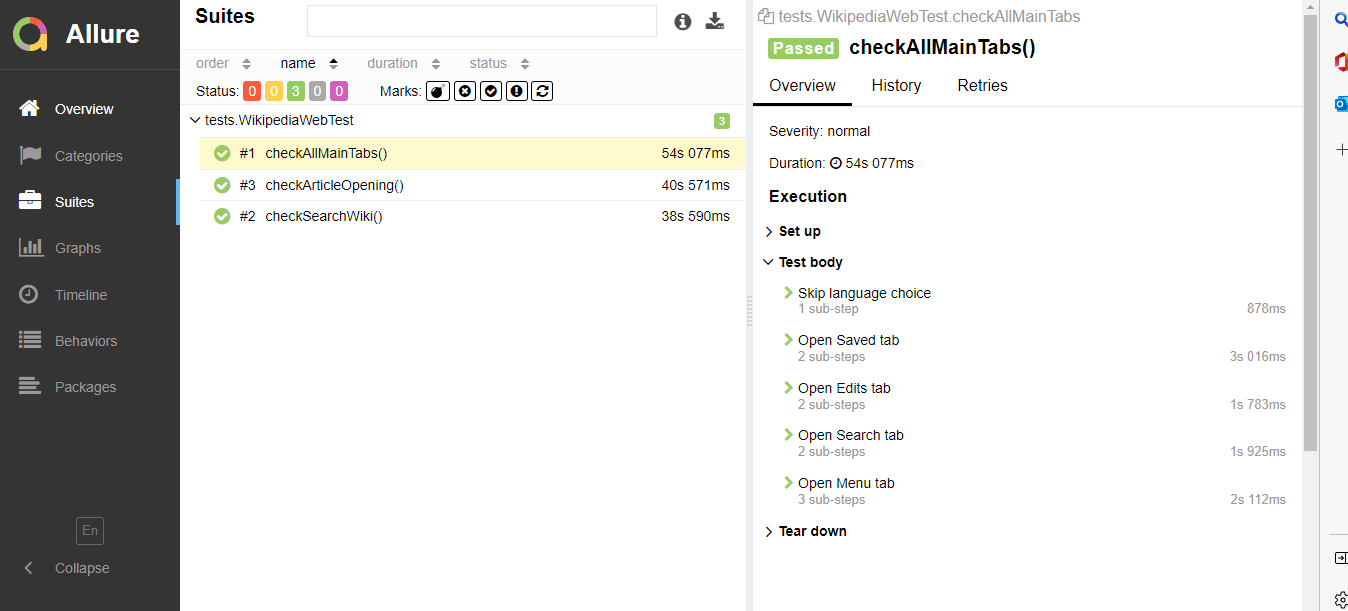
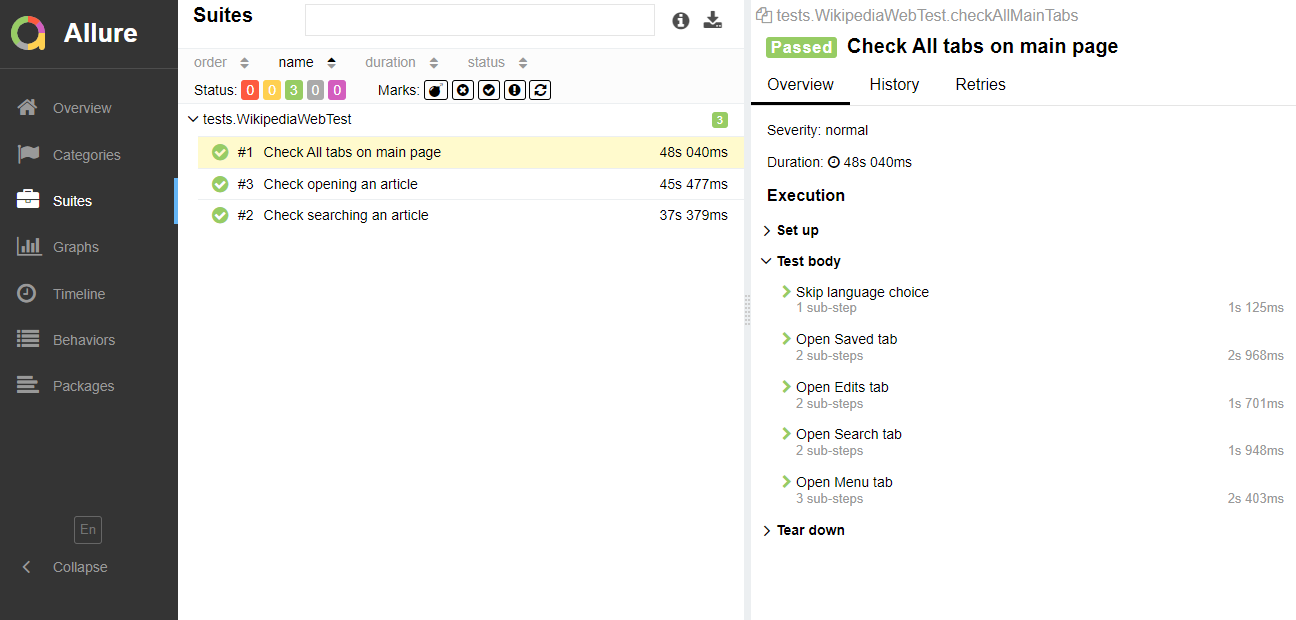
add displayed name

diff --git a/src/test/java/tests/WikipediaWebTest.java b/src/test/java/tests/WikipediaWebTest.java
@@ -1,5 +1,6 @@
 package tests;
 
+import org.junit.jupiter.api.DisplayName;
 import org.junit.jupiter.api.Test;
 import tests.steps.MainScreenTabs;
 import tests.steps.SearchScreenSteps;
@@ -8,6 +9,7 @@ public class WikipediaWebTest extends TestBase {
     SearchScreenSteps searchScreenSteps = new SearchScreenSteps();
     MainScreenTabs mainScreenTabs = new MainScreenTabs();
 
+    @DisplayName("Check searching an article")
     @Test
     void checkSearchWiki() {
         searchScreenSteps
@@ -16,6 +18,7 @@ public class WikipediaWebTest extends TestBase {
                 .checkSearchedArticles();
     }
 
+    @DisplayName("Check opening an article")
     @Test
     void checkArticleOpening() {
         String element = "Appium";
@@ -28,6 +31,7 @@ public class WikipediaWebTest extends TestBase {
 
     }
 
+    @DisplayName("Check All tabs on main page")
     @Test
     void checkAllMainTabs() {
         searchScreenSteps
